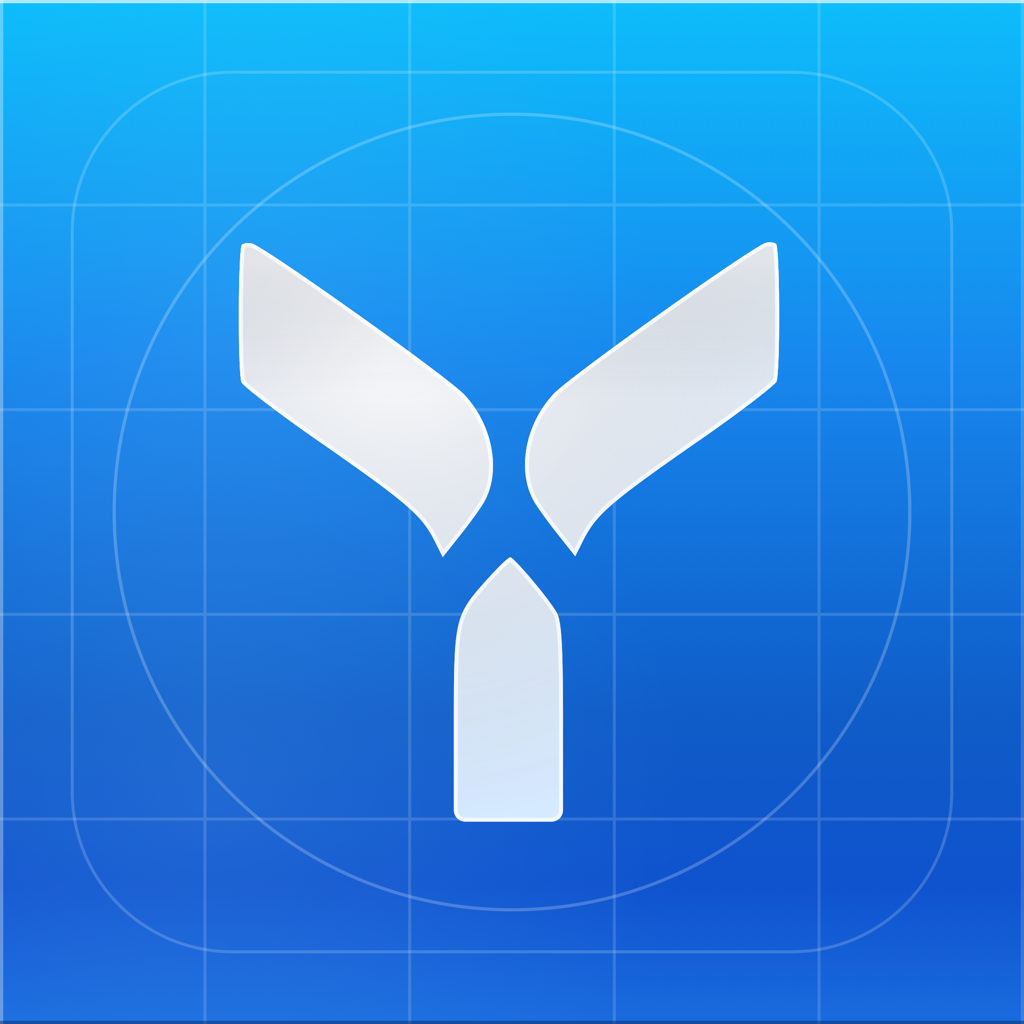
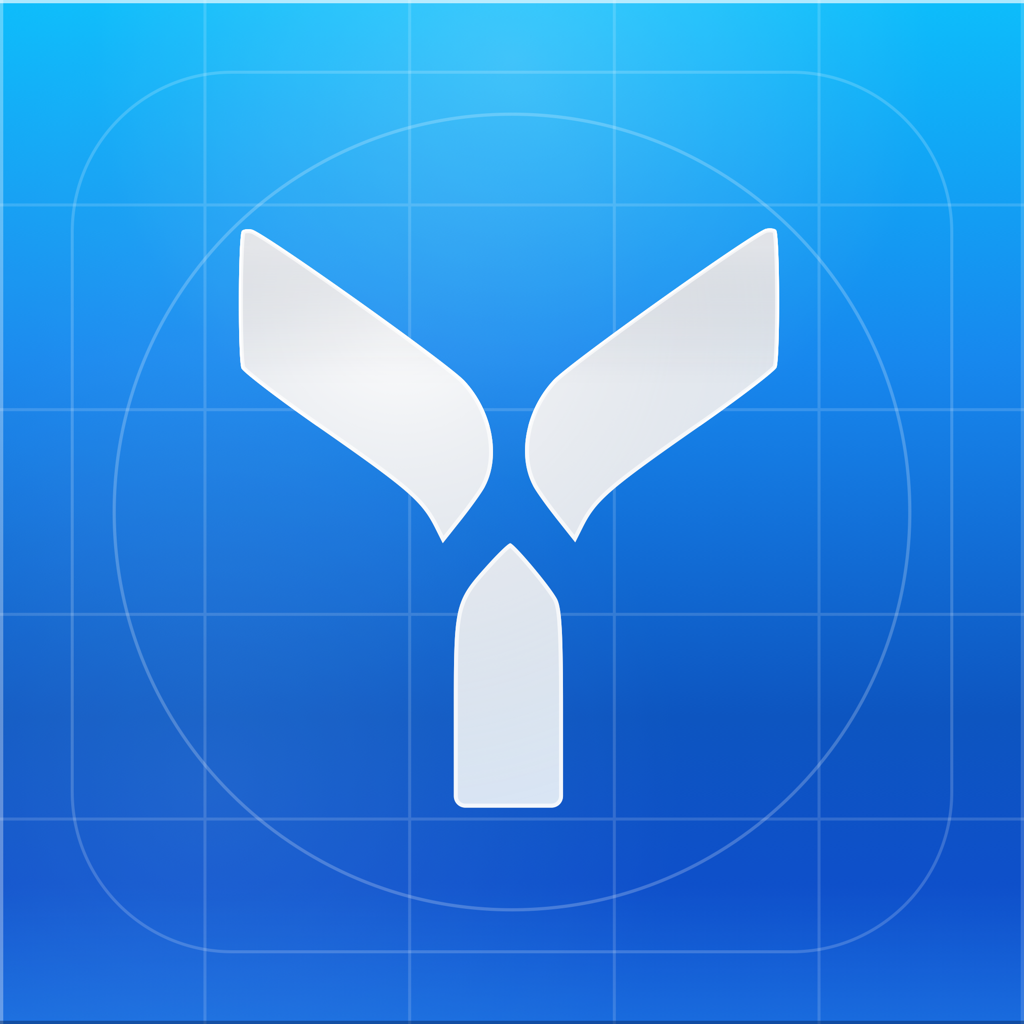
refine(brand): luminous crown, brighter mark, optical centering
Close the remaining gaps to the reference: airy crown glow up top,
mark core driven brighter with wider radial volume, mid deepened behind
the mark, whole mark nudged up for optical centering. Contrast 2.25,
gradient smoothness verified by pixel scan.

diff --git a/assets/beta/generate-beta-icon.swift b/assets/beta/generate-beta-icon.swift
@@ -17,7 +17,7 @@ struct Palette {
 }
 
 // Light: exact Xcode 26 stop colors.
-let light = Palette(top: 0x0DBDFB, upperMid: 0x1788EE, lowerMid: 0x0F5CC8, bottom: 0x0F4BD2, mark: 0xFFFFFF)
+let light = Palette(top: 0x0DBDFB, upperMid: 0x1788EE, lowerMid: 0x0D55C0, bottom: 0x0F4BD2, mark: 0xFFFFFF)
 
 func cg(_ hex: UInt32, _ a: CGFloat = 1) -> CGColor {
   CGColor(srgbRed: CGFloat((hex >> 16) & 0xFF) / 255, green: CGFloat((hex >> 8) & 0xFF) / 255, blue: CGFloat(hex & 0xFF) / 255, alpha: a)
@@ -77,7 +77,7 @@ let markPath: CGPath = {
 let markScale: CGFloat = 1.15
 let markCenter = CGPoint(x: 235, y: 252)
 func addMark(to ctx: CGContext) {
-  var t = CGAffineTransform(translationX: 274 + markCenter.x * (1 - markScale), y: 280 + markCenter.y * (1 - markScale)).scaledBy(x: markScale, y: markScale)
+  var t = CGAffineTransform(translationX: 274 + markCenter.x * (1 - markScale), y: 266 + markCenter.y * (1 - markScale)).scaledBy(x: markScale, y: markScale)
   if let moved = markPath.copy(using: &t) { ctx.addPath(moved) }
 }
 
@@ -95,6 +95,10 @@ func drawIcon(_ p: Palette, name: String) {
   let stops = [cg(p.top), cg(p.upperMid), cg(p.lowerMid), cg(p.bottom)] as CFArray
   if let g = CGGradient(colorsSpace: cs, colors: [cg(p.top), cg(p.upperMid), cg(p.lowerMid), cg(p.bottom)] as CFArray, locations: [0, 0.35, 0.7, 1]) {
     ctx.drawLinearGradient(g, start: CGPoint(x: 0, y: 0), end: CGPoint(x: 0, y: D), options: [.drawsBeforeStartLocation, .drawsAfterEndLocation])
+  }
+  // Airy crown light: the reference glows up top.
+  if let g = CGGradient(colorsSpace: cs, colors: [cg(0xFFFFFF, 0.20), cg(0xFFFFFF, 0)] as CFArray, locations: [0, 1]) {
+    ctx.drawRadialGradient(g, startCenter: CGPoint(x: 512, y: 60), startRadius: 0, endCenter: CGPoint(x: 512, y: 60), endRadius: 420, options: [])
   }
 
   // Layered translucent depth bands (reference recipe): soft light masses under the linework.
@@ -147,21 +151,21 @@ func drawIcon(_ p: Palette, name: String) {
   ctx.setShadow(offset: CGSize(width: 8, height: -18), blur: 44, color: cg(0x021233, 0.33))
   addMark(to: ctx)
   ctx.clip()
-  if let g = CGGradient(colorsSpace: cs, colors: [cg(0xEFF7FF), cg(0xD5E9FF)] as CFArray, locations: [0, 1]) {
-    ctx.drawLinearGradient(g, start: CGPoint(x: 0, y: 260), end: CGPoint(x: 0, y: 805), options: [.drawsBeforeStartLocation, .drawsAfterEndLocation])
+  if let g = CGGradient(colorsSpace: cs, colors: [cg(0xF2F9FF), cg(0xDFEEFF)] as CFArray, locations: [0, 1]) {
+    ctx.drawLinearGradient(g, start: CGPoint(x: 0, y: 246), end: CGPoint(x: 0, y: 791), options: [.drawsBeforeStartLocation, .drawsAfterEndLocation])
   }
   if let g = CGGradient(colorsSpace: cs, colors: [cg(0xFFFFFF, 1.0), cg(0xFFFFFF, 0)] as CFArray, locations: [0, 1]) {
-    ctx.drawRadialGradient(g, startCenter: CGPoint(x: 400, y: 330), startRadius: 0, endCenter: CGPoint(x: 400, y: 330), endRadius: 480, options: [])
+    ctx.drawRadialGradient(g, startCenter: CGPoint(x: 400, y: 316), startRadius: 0, endCenter: CGPoint(x: 400, y: 316), endRadius: 620, options: [])
   }
   if let g = CGGradient(colorsSpace: cs, colors: [cg(0xFFFFFF, 0.55), cg(0xFFFFFF, 0)] as CFArray, locations: [0, 1]) {
-    ctx.drawLinearGradient(g, start: CGPoint(x: 0, y: 260), end: CGPoint(x: 0, y: 380), options: [.drawsBeforeStartLocation, .drawsAfterEndLocation])
+    ctx.drawLinearGradient(g, start: CGPoint(x: 0, y: 246), end: CGPoint(x: 0, y: 366), options: [.drawsBeforeStartLocation, .drawsAfterEndLocation])
   }
   ctx.restoreGState()
   ctx.saveGState()
   addMark(to: ctx)
   ctx.clip()
   ctx.saveGState()
-  ctx.clip(to: CGRect(x: 0, y: 0, width: D, height: 440))
+  ctx.clip(to: CGRect(x: 0, y: 0, width: D, height: 426))
   addMark(to: ctx)
   ctx.setStrokeColor(cg(0xFFFFFF, 1.0))
   ctx.setLineWidth(4)
